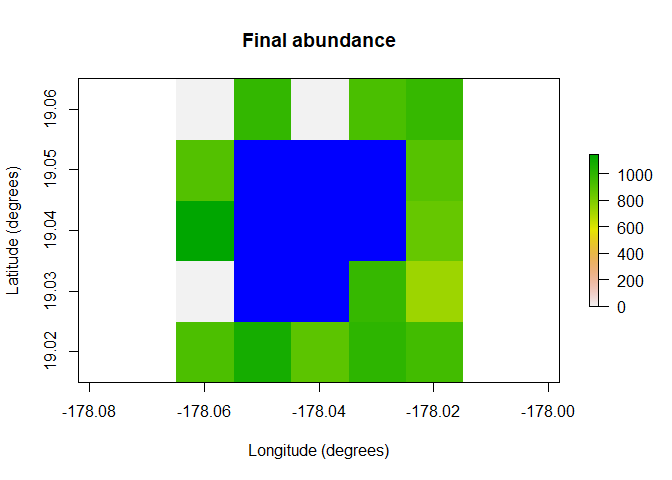
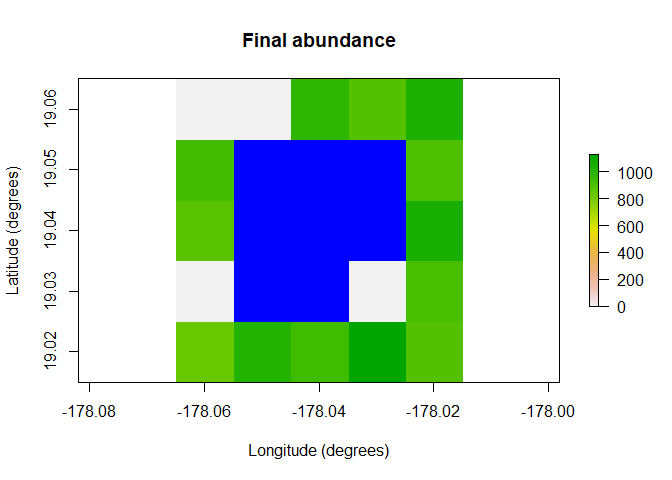
CRAN badges

diff --git a/README.md b/README.md
@@ -7,6 +7,10 @@
 
 [![R-CMD-check](https://github.com/GlobalEcologyLab/paleopop/workflows/R-CMD-check/badge.svg)](https://github.com/GlobalEcologyLab/paleopop/actions)
 
+[![CRAN
+status](https://www.r-pkg.org/badges/version/paleopop)](https://CRAN.R-project.org/package=paleopop)
+
+[![Download\_count](https://cranlogs.r-pkg.org/badges/grand-total/paleopop)](https://CRAN.R-project.org/package=paleopop)
 <!-- badges: end -->
 
 `paleopop` is an extension to `poems`, a spatially-explicit,
@@ -112,22 +116,22 @@ results # examine
 #> $abundance
 #>       [,1] [,2] [,3] [,4] [,5] [,6] [,7] [,8] [,9] [,10]
 #>  [1,]    0    0    0    0    0    0    0    0    0     0
-#>  [2,]   87  151  275  409  604  876 1023 1090 1164   989
-#>  [3,]    0    0    0    0    0    0    0    0    0     0
-#>  [4,]   85  157  281  392  593  687  904  933  816   924
-#>  [5,]  965 1105  982  831  880 1082 1039 1149 1012   981
-#>  [6,]  201  332  487  681  879  977 1226 1149 1434   903
-#>  [7,]  791  872  901  923  965  860  795  821  924   893
-#>  [8,]  995  990  851  975  957  984  987 1172 1175  1146
-#>  [9,]  886 1144  991  798  924 1105 1293 1072  869   854
+#>  [2,]    0    0    0    0    0    0    0    0    0     0
+#>  [3,]  133  204  364  609  875  773  878  932 1164   990
+#>  [4,]  189  348  584  757  884  991 1105  938 1114   888
+#>  [5,]  208  286  464  701  830 1028  823  819  819  1039
+#>  [6,]  695  721  894 1003  980  935  987 1043  892   932
+#>  [7,]  921  840  957  966  832  923  916  864  859   903
+#>  [8,]  782  806  953 1017 1014 1029  958  994  959   872
+#>  [9,]  888 1138  896  893 1015  996 1063 1015  994  1046
 #> [10,]    0    0    0    0    0    0    0    0    0     0
-#> [11,]   39   82  139  253  446  640  776  800  831   980
-#> [12,]   20   40   76  138  240  314  439  585  653   728
-#> [13,]   56  110  177  299  485  667  890 1083 1201   921
-#> [14,] 4431  300  518  786  957  857  867 1035  928  1079
-#> [15,]  346  482  571  726  786  889  967  937  938   879
-#> [16,]  240  386  521  729  777  932  920  813  901  1005
-#> [17,]  585  693  753  887 1074 1069  907 1069 1029   947
+#> [11,]    0    0    0    0    0    0    0    0    0     0
+#> [12,]   19   34   54  115  204  326  489  607  664   913
+#> [13,]  354  497  609  842  990  768  845  974 1072   833
+#> [14,]  104  189  325  466  745  829  948 1079 1084  1020
+#> [15,] 1184 1020  898  890 1046 1021 1074  983  975   936
+#> [16,]  232  353  494  651  717  858  969 1055 1072  1128
+#> [17,]  863  881 1022  890  886 1022  933  807  915   887
 raster::plot(region$raster_from_values(results$abundance[,10]),
              main = "Final abundance", xlab = "Longitude (degrees)", 
              ylab = "Latitude (degrees)", colNA = "blue")

diff --git a/cran-comments.md b/cran-comments.md
@@ -1,9 +1,11 @@
 ## Test environments
 * local R installation, R 4.0.4, on Windows 10
 * local R installation, R 4.0.4, on macOS 11.2
+* ubuntu 14.04, R 4.0.4, via Rhub
 
 ## R CMD check results
 
-0 errors | 0 warnings | 1 note
+0 errors | 0 warnings | 2 notes
 
 * This is a new release.
+* There is a note for the spelling of "paleo" and "paleontological." "Paleontological" is a viable English word according to the OED, and "paleo" is a crucial prefix word for a package meant to be used for paleo-ecology.
